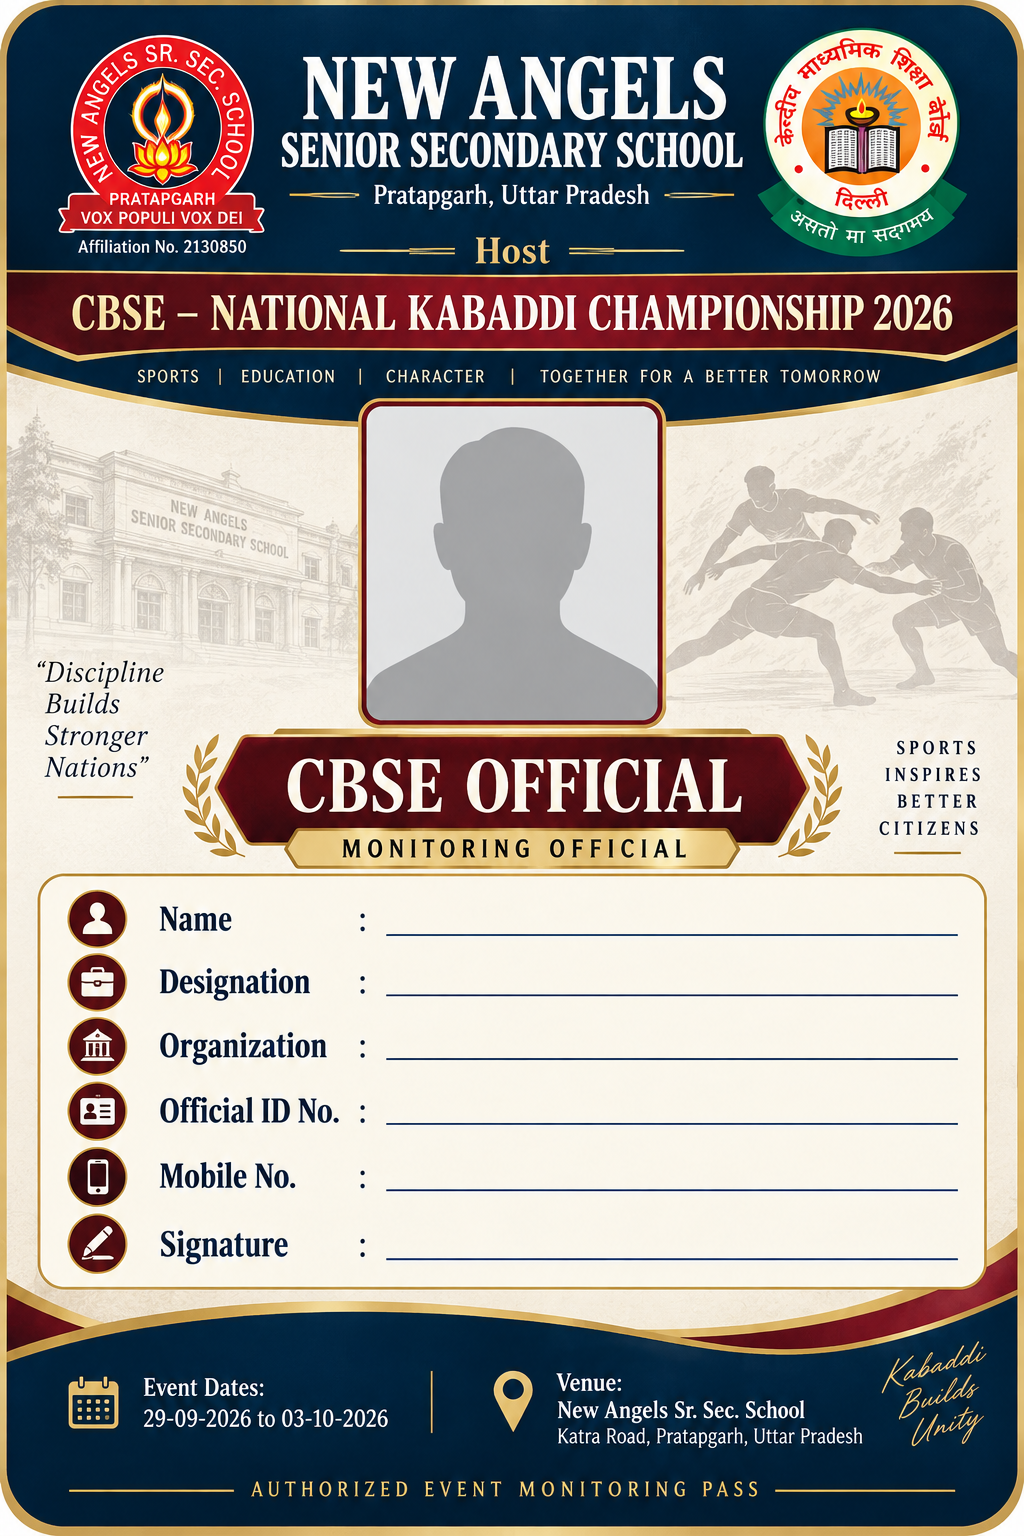
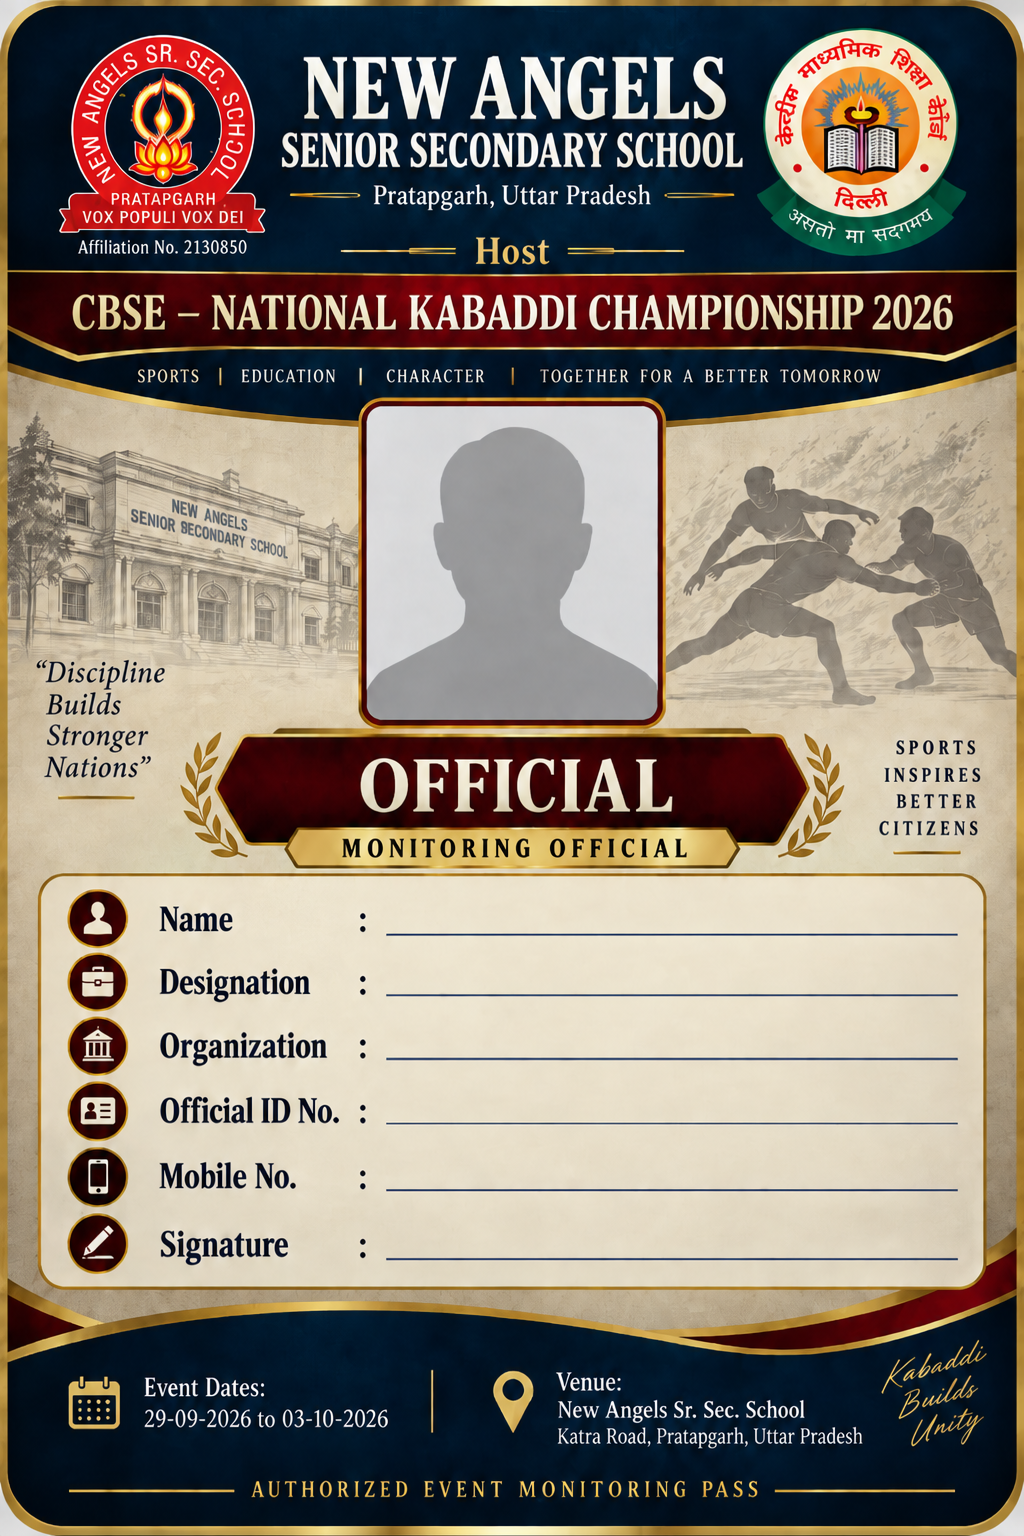
added id card backside

diff --git a/frontend/src/pages/admin/IdCardBacks.tsx b/frontend/src/pages/admin/IdCardBacks.tsx
@@ -1,0 +1,105 @@
+import { useState } from "react";
+import { IdCard, Download } from "lucide-react";
+import { BASE_URL } from "@/lib/api";
+import { Input, Label, Select } from "@/components/ui/input";
+
+// Mirrors backend/app/id_card.py: the two back-side sizes match the fronts
+// (participant/volunteer vs. coach/manager/official) and the sheet grids are
+// A4_SHEET/SHEET_12X18 vs. their staff_sheet_layout equivalents.
+const SIZES = [
+  { value: "participant", label: "Participant / Volunteer (6.6 x 11.5cm)", perSheet: { a4: 6, "12x18": 12 } },
+  { value: "staff", label: "Coach / Manager / Official (8.2 x 11.5cm)", perSheet: { a4: 4, "12x18": 9 } },
+] as const;
+
+const SHEETS = [
+  { value: "a7", label: "Single card page — one card per page" },
+  { value: "a4", label: "A4 (21 x 29.7cm) grid sheet" },
+  { value: "12x18", label: "12in x 18in print-shop stock grid sheet" },
+] as const;
+
+const MAX_COUNT = 500;
+
+export default function IdCardBacks() {
+  const [size, setSize] = useState<(typeof SIZES)[number]["value"]>("participant");
+  const [sheet, setSheet] = useState<(typeof SHEETS)[number]["value"]>("a7");
+  const [count, setCount] = useState("25");
+
+  const countNum = Number(count);
+  const valid = Number.isFinite(countNum) && countNum > 0 && countNum <= MAX_COUNT;
+  const perSheet = sheet === "a7" ? 1 : SIZES.find((s) => s.value === size)!.perSheet[sheet];
+  const pagesNeeded = valid ? Math.ceil(countNum / perSheet) : 0;
+  const downloadUrl = `${BASE_URL}/api/export/idcards/back.pdf?size=${size}&count=${countNum || 0}&sheet=${sheet}`;
+
+  return (
+    <div data-testid="admin-idcard-backs" className="space-y-6 max-w-xl">
+      <div className="border-b border-white/10 pb-5">
+        <span className="text-xs font-heading font-extrabold uppercase tracking-widest text-gold">PRE-PRINTING STOCK</span>
+        <h1 className="mt-1 font-heading text-2xl sm:text-3xl font-black tracking-tight text-white">ID Card Back</h1>
+        <p className="mt-1 text-xs sm:text-sm text-slate-400 font-body">
+          Download the back side of the ID card in the size that matches the front — one for Participant / Volunteer
+          cards, one for Coach / Manager / Official cards.
+        </p>
+      </div>
+
+      <div className="rounded-xl border border-white/10 bg-obsidian-900 p-5 space-y-4">
+        <div className="grid gap-3 sm:grid-cols-2">
+          <div>
+            <Label>Card Size</Label>
+            <Select value={size} onChange={(e) => setSize(e.target.value as typeof size)} data-testid="idcard-back-size-select">
+              {SIZES.map((s) => (
+                <option key={s.value} value={s.value}>
+                  {s.label}
+                </option>
+              ))}
+            </Select>
+          </div>
+          <div>
+            <Label>Sheet / Paper Size</Label>
+            <Select value={sheet} onChange={(e) => setSheet(e.target.value as typeof sheet)} data-testid="idcard-back-sheet-select">
+              {SHEETS.map((s) => (
+                <option key={s.value} value={s.value}>
+                  {s.label}
+                </option>
+              ))}
+            </Select>
+          </div>
+        </div>
+        <div>
+          <Label>Number of Cards</Label>
+          <Input
+            type="number"
+            min={1}
+            max={MAX_COUNT}
+            value={count}
+            onChange={(e) => setCount(e.target.value)}
+            data-testid="idcard-back-count-input"
+          />
+          {!valid && <p className="mt-1 text-xs text-red-400">Enter a number between 1 and {MAX_COUNT}.</p>}
+        </div>
+
+        {valid && (
+          <p className="text-xs text-slate-400 font-body" data-testid="idcard-back-sheets-hint">
+            {sheet === "a7" ? "One card per page" : `${perSheet} cards per sheet`} — this will print{" "}
+            <strong className="text-white">{pagesNeeded}</strong>{" "}
+            {sheet === "a7" ? (pagesNeeded === 1 ? "page" : "pages") : pagesNeeded === 1 ? "sheet" : "sheets"}.
+          </p>
+        )}
+
+        <a
+          href={valid ? downloadUrl : undefined}
+          aria-disabled={!valid}
+          className={`flex items-center justify-center gap-2 rounded-lg border px-4 py-2.5 text-xs font-heading font-extrabold uppercase tracking-wide transition-colors ${
+            valid
+              ? "border-gold/40 bg-gold/10 text-gold hover:bg-gold/15 cursor-pointer"
+              : "border-white/10 bg-white/5 text-slate-500 cursor-not-allowed pointer-events-none"
+          }`}
+          data-testid="download-idcard-backs-btn"
+        >
+          <IdCard className="h-4 w-4" />
+          <Download className="h-4 w-4" />
+          Download ID Card Backs (PDF)
+        </a>
+      </div>
+    </div>
+  );
+}

diff --git a/frontend/src/App.tsx b/frontend/src/App.tsx
@@ -41,6 +41,7 @@ const Staff = lazy(() => import("@/pages/admin/Staff"));
 const Volunteers = lazy(() => import("@/pages/admin/Volunteers"));
 const Officials = lazy(() => import("@/pages/admin/Officials"));
 const BlankIdCards = lazy(() => import("@/pages/admin/BlankIdCards"));
+const IdCardBacks = lazy(() => import("@/pages/admin/IdCardBacks"));
 const Duties = lazy(() => import("@/pages/admin/Duties"));
 const MyWork = lazy(() => import("@/pages/admin/MyWork"));
 const MyIdCard = lazy(() => import("@/pages/admin/MyIdCard"));
@@ -154,6 +155,7 @@ export default function App() {
           <Route path="/admin/volunteers" element={<Volunteers />} />
           <Route path="/admin/officials" element={<Officials />} />
           <Route path="/admin/blank-id-cards" element={<BlankIdCards />} />
+          <Route path="/admin/id-card-back" element={<IdCardBacks />} />
           <Route path="/admin/accommodation" element={<Accommodation />} />
           <Route path="/admin/room-map" element={<RoomMap />} />
           <Route path="/admin/food" element={<ComingSoon title="Food Planning" />} />

diff --git a/frontend/src/components/admin/AdminLayout.tsx b/frontend/src/components/admin/AdminLayout.tsx
@@ -136,6 +136,7 @@ const NAV_GROUPS: NavGroup[] = [
       { to: "/admin/teams", label: "Teams", icon: Users, moduleKey: "teams" },
       { to: "/admin/participants", label: "Participants", icon: UserSquare2, moduleKey: "teams" },
       { to: "/admin/blank-id-cards", label: "Blank ID Card Stock", icon: IdCard, moduleKey: "teams" },
+      { to: "/admin/id-card-back", label: "ID Card Back", icon: IdCard, moduleKey: "teams" },
       { to: "/admin/venues", label: "Venues", icon: MapPin, moduleKey: "venues" },
       { to: "/admin/accommodation", label: "Accommodation", icon: BedDouble, moduleKey: "accommodation" },
       { to: "/admin/room-map", label: "Room Map", icon: LayoutGrid, moduleKey: "accommodation" },

diff --git a/backend/app/routers/exports.py b/backend/app/routers/exports.py
@@ -1807,6 +1807,27 @@ def export_blank_staff_idcards(
     return _pdf_response(pdf, f"blank-{role.lower()}-idcards-{sheet}.pdf")
 
 
+@router.get("/idcards/back.pdf", dependencies=[Depends(require_module("teams"))])
+def export_idcard_back(
+    size: str = Query("participant", pattern="^(participant|staff)$"),
+    count: int = Query(1, gt=0, le=500),
+    sheet: str = Query("a7", pattern="^(a4|12x18|a7)$"),
+):
+    """The shared ID card back (id_card.render_id_back), `count` copies, in
+    the size matching the fronts: "participant" (Participant/Volunteer,
+    6.6x11.5cm) or "staff" (Coach/Manager/Official, 8.2x11.5cm). "a7" = one
+    per page at that card size; "a4"/"12x18" tile onto the same grids the
+    fronts use (staff_sheet_layout for "staff")."""
+    if sheet == "a7":
+        pdf = id_card.build_pdf([id_card.render_id_back_page(size)] * count)
+    else:
+        layout = id_card.A4_SHEET if sheet == "a4" else id_card.SHEET_12X18
+        if size == "staff":
+            layout = id_card.staff_sheet_layout(layout)
+        pdf = id_card.build_pdf_sheets([[id_card.render_id_back()] * count], layout=layout, dpi=id_card.PRINT_DPI)
+    return _pdf_response(pdf, f"idcard-back-{size}-{sheet}.pdf")
+
+
 @router.get("/payments.xlsx", dependencies=[Depends(require_module("teams"))])
 def export_payments_xlsx(db: Session = Depends(get_db)):
     """Per-team registration-fee ledger — total billed, total paid (split

diff --git a/backend/app/id_card.py b/backend/app/id_card.py
@@ -590,6 +590,26 @@ def render_blank_participant_card_page(kind: str, dpi: int = PRINT_DPI) -> Image
     return render_blank_participant_card(kind).resize(size, Image.LANCZOS)
 
 
+# --- ID card back (shared, static artwork) ----------------------------------
+# One 1024x1536 back-side graphic (backend/assets/templates/
+# id_card_back_template.png), no per-person data. Printed in two physical
+# sizes to match the fronts: "participant" (Participant/Volunteer,
+# CARD_WIDTH_CM x CARD_HEIGHT_CM) and "staff" (Coach/Manager/Official,
+# STAFF_PAGE_WIDTH_CM x STAFF_PAGE_HEIGHT_CM, with staff_sheet_layout grids).
+BACK_TEMPLATE_PATH = Path(__file__).resolve().parent.parent / "assets" / "templates" / "id_card_back_template.png"
+
+
+def render_id_back() -> Image.Image:
+    return Image.open(BACK_TEMPLATE_PATH).convert("RGB").resize(TEMPLATE_SIZE)
+
+
+def render_id_back_page(size: str, dpi: int = PRINT_DPI) -> Image.Image:
+    """One back filling its own page at the front-card size for `size`
+    ("participant" or "staff")."""
+    px = _staff_page_size_px(dpi) if size == "staff" else _print_size_px(dpi)
+    return render_id_back().resize(px, Image.LANCZOS)
+
+
 def build_pdf(cards: list[Image.Image], dpi: int = PRINT_DPI) -> bytes:
     if not cards:
         raise ValueError("build_pdf requires at least one card")
